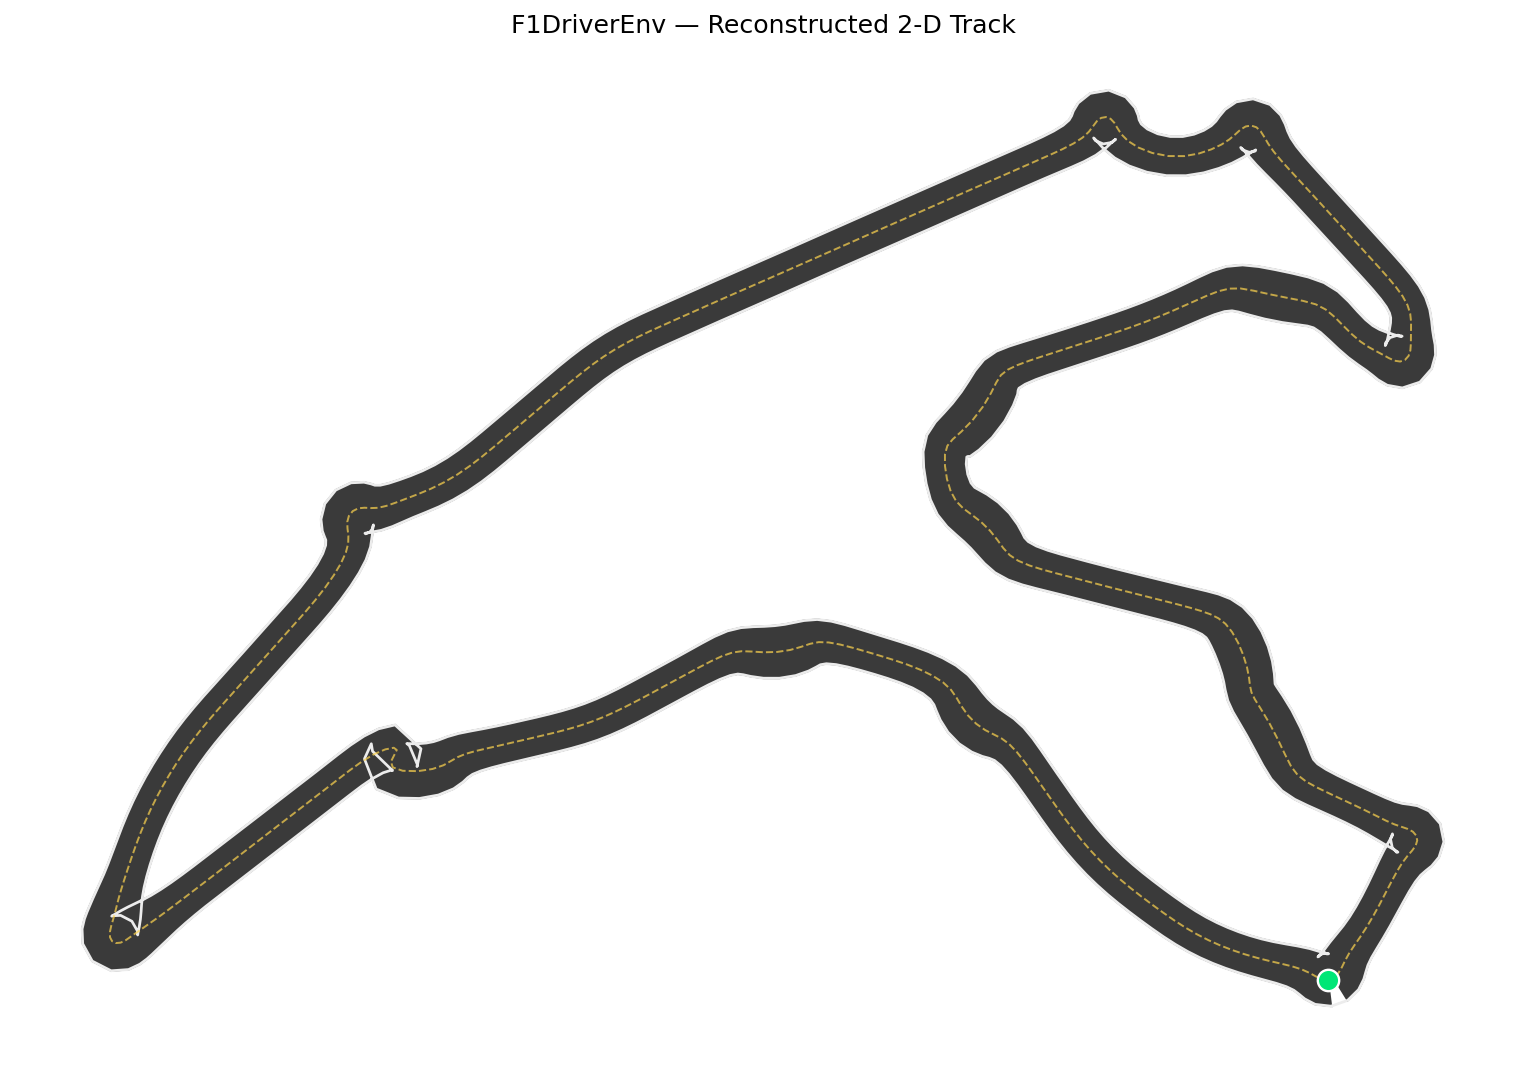
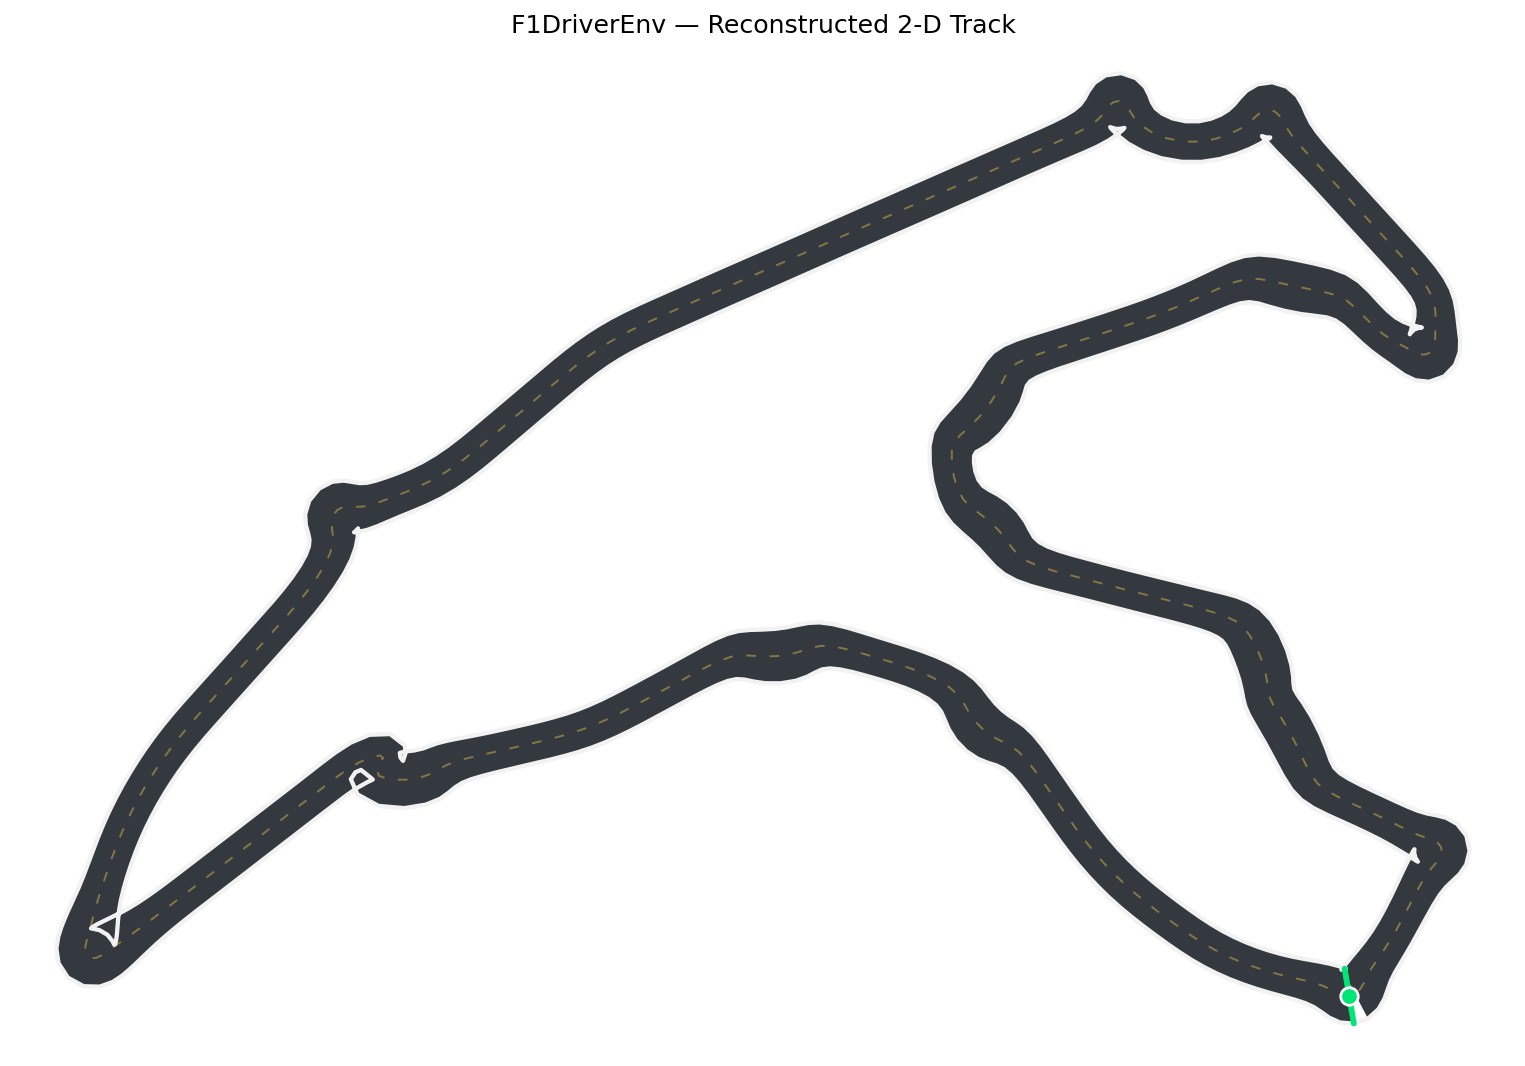
트랙 시각화 가독성 개선 (geometry 불변)
draw_track을 raw left/right 윤곽선 대신 centerline ± half_width로
렌더링. half_width는 env가 충돌 판정에 실제 쓰는 스무딩된 폭이라
트랙 폭(실험 설정)은 그대로 유지되면서, 윤곽선의 코너 스파이크가
사라져 도로가 매끄러운 리본으로 그려진다.

- 법선 방향을 원형 이동평균으로 스무딩(폭은 불변)해 헤어핀 노치 완화
- 둥근 cap/join의 흰 경계, 은은한 점선 중앙선, 수직 출발선 + 마커
- traj_*/GIF는 서버 정본 유지(롤아웃은 머신 의존적) — 서버 viz 재실행
  시 새 트랙 스타일로 함께 갱신됨

diff --git a/visualize.py b/visualize.py
@@ -51,21 +51,45 @@ def _algo_cls(algo):
 
 # ── Track drawing ────────────────────────────────────────────────────────────
 def _track():
+    """Centerline + the SMOOTHED half-width the env actually uses for off-track
+    checks (raw left/right contours have spikes; centerline ± half_width gives the
+    same drivable corridor without the jaggies)."""
     d = np.load(TRACK)
-    return d["centerline"], d["left"], d["right"]
+    cl = d["centerline"].astype(float); hw = d["half_width"].astype(float)
+    tang = np.roll(cl, -1, 0) - np.roll(cl, 1, 0)
+    tang /= np.linalg.norm(tang, axis=1, keepdims=True) + 1e-9
+    nrm = np.column_stack([-tang[:, 1], tang[:, 0]])
+    # smooth the offset DIRECTION (circular moving average) so the edges don't
+    # self-intersect into spikes at hairpins; half_width itself is untouched.
+    k = 5; w = np.ones(k) / k
+    nrm = np.column_stack([np.convolve(np.r_[nrm[-k:, i], nrm[:, i], nrm[:k, i]], w,
+                                       "same")[k:-k] for i in (0, 1)])
+    nrm /= np.linalg.norm(nrm, axis=1, keepdims=True) + 1e-9
+    return cl, hw, nrm
 
 def draw_track(ax):
-    cl, left, right = _track()
-    band = np.vstack([left, right[::-1]])
-    ax.fill(band[:, 0], band[:, 1], color="#3a3a3a", zorder=1)
-    for b in (left, right):
-        bb = np.vstack([b, b[0]])
-        ax.plot(bb[:, 0], bb[:, 1], color="#ECECEC", lw=1.4, zorder=2)
+    cl, hw, nrm = _track()
+    inner = cl - hw[:, None] * nrm
+    outer = cl + hw[:, None] * nrm
+    # asphalt ribbon: outer loop + reversed inner loop -> filled ring (infield hole)
+    band = np.vstack([outer, inner[::-1]])
+    ax.fill(band[:, 0], band[:, 1], color="#34383f", lw=0, zorder=1)
+    # smooth white kerb edges (rounded joins kill the corner spikes)
+    for e in (inner, outer):
+        ec = np.vstack([e, e[0]])
+        ax.plot(ec[:, 0], ec[:, 1], color="#f2f2f2", lw=2.2, zorder=3,
+                solid_capstyle="round", solid_joinstyle="round")
+    # subtle dashed centerline (kept faint so overlaid racing lines stand out)
     clc = np.vstack([cl, cl[0]])
-    ax.plot(clc[:, 0], clc[:, 1], "--", color="#FFD54F", lw=1.0, alpha=0.7, zorder=3)
-    ax.plot(cl[0, 0], cl[0, 1], "o", color="#00E676", ms=11, zorder=6,
-            markeredgecolor="white", markeredgewidth=1.2)
-    ax.set_aspect("equal"); ax.axis("off")
+    ax.plot(clc[:, 0], clc[:, 1], color="#FFD54F", lw=1.0, alpha=0.4,
+            dashes=(5, 7), zorder=2)
+    # start/finish line (perpendicular) + marker
+    s, n = cl[0], nrm[0] * hw[0]
+    ax.plot([s[0]-n[0], s[0]+n[0]], [s[1]-n[1], s[1]+n[1]],
+            color="#00E676", lw=3.0, zorder=5, solid_capstyle="round")
+    ax.plot(s[0], s[1], "o", color="#00E676", ms=9, zorder=6,
+            markeredgecolor="white", markeredgewidth=1.4)
+    ax.set_aspect("equal"); ax.axis("off"); ax.margins(0.03)
 
 def plot_track_map():
     fig, ax = plt.subplots(figsize=(11, 8)); fig.patch.set_facecolor("white")
